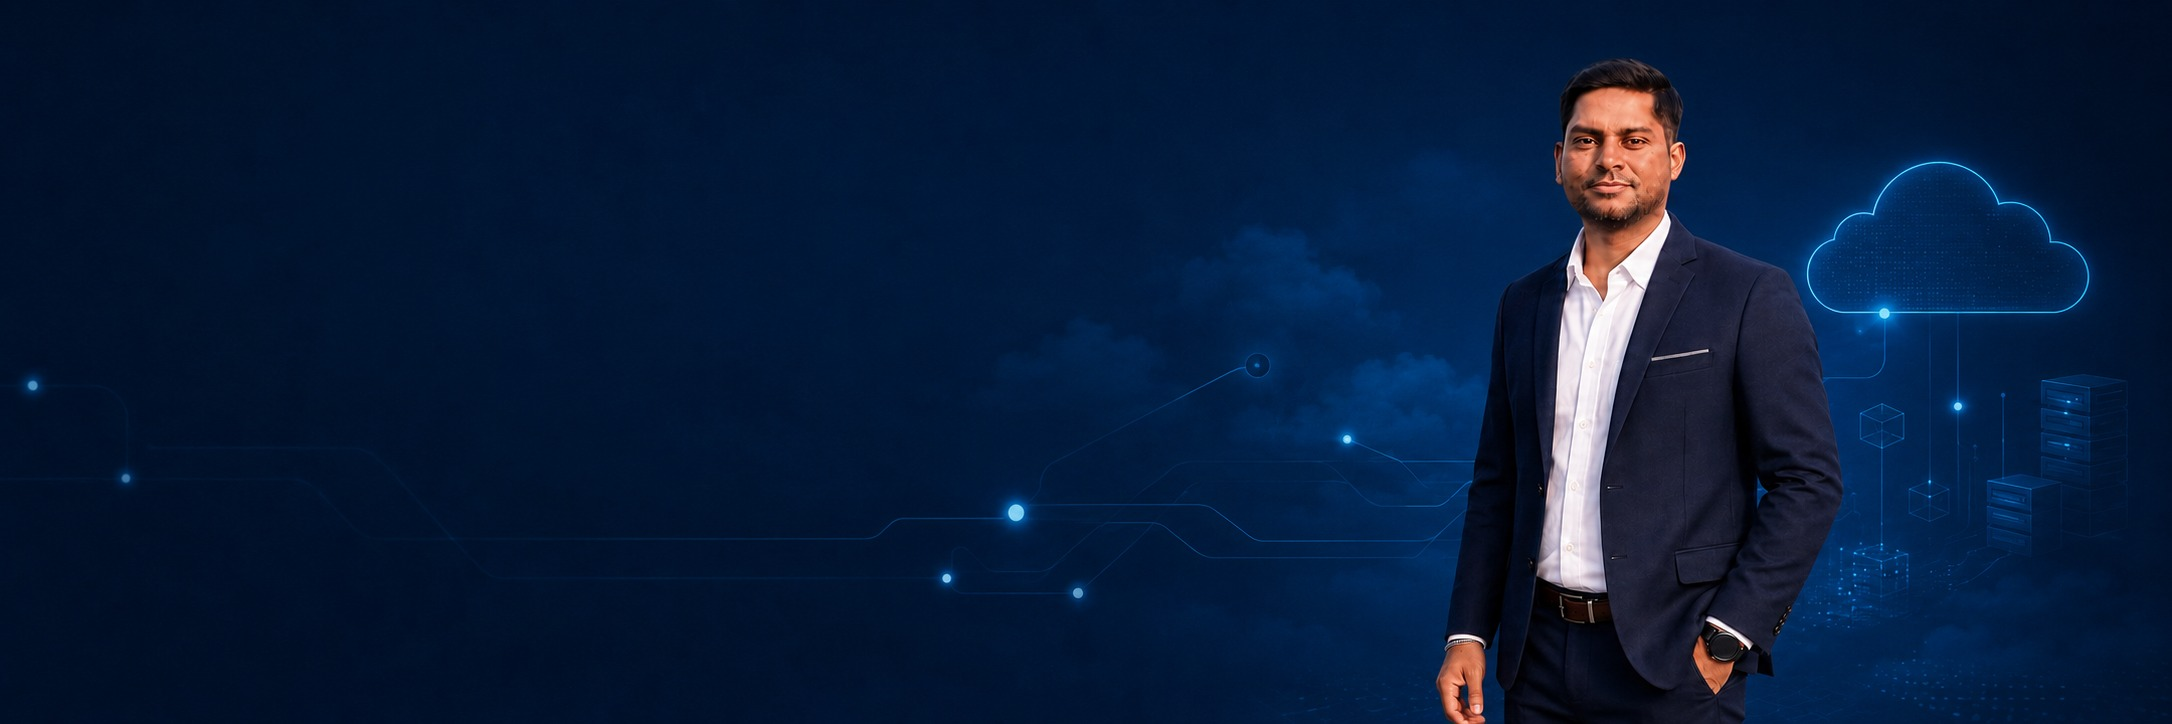
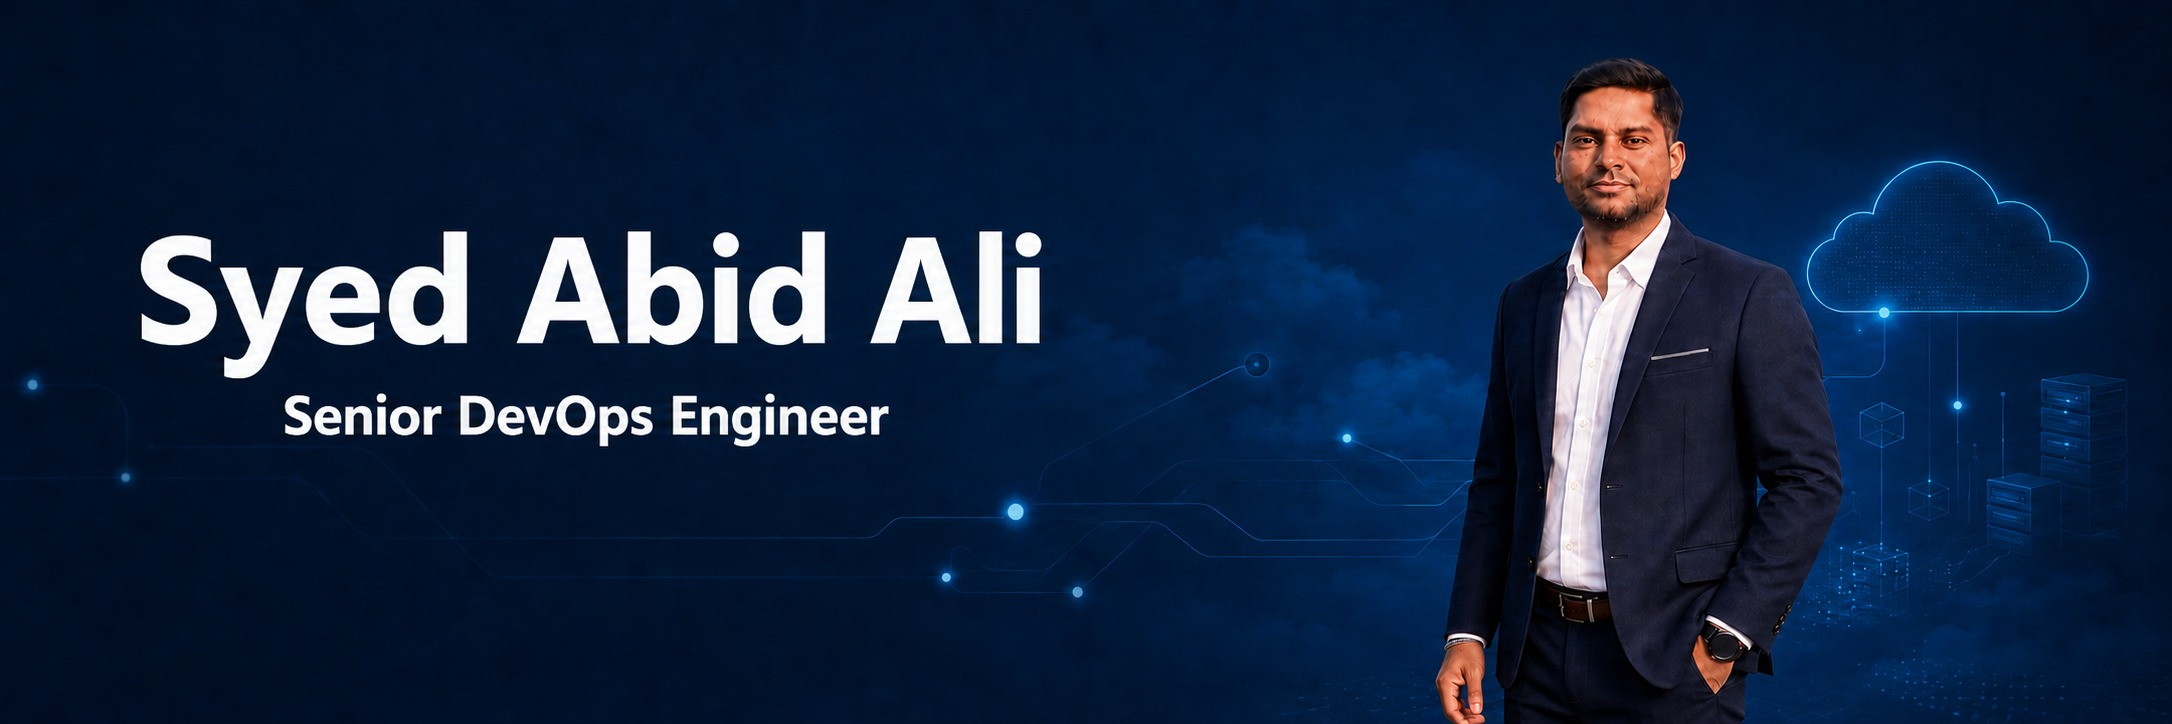
Edit readmefile1

diff --git a/README.md b/README.md
@@ -1,6 +1,6 @@
 <div align="center">
 
-<img src="https://capsule-render.vercel.app/api?type=rect&color=0:020617,45:0F172A,100:0C4A6E&height=210&section=header&text=Syed%20Abid%20Ali&fontSize=50&fontColor=F8FAFC&animation=fadeIn&fontAlignY=40&desc=Senior%20DevOps%20Engineer&descSize=20&descAlign=50&descAlignY=65" width="100%" alt="Syed Abid Ali Header"><img src="./images/github-banner.jpg" width="100%" alt="Syed Abid Ali Azure Cloud and DevOps Banner">
+<img src="./images/github-banner.jpg" width="100%" alt="Syed Abid Ali Azure Cloud and DevOps Banner">
 
 <img src="https://readme-typing-svg.demolab.com?font=Fira+Code&weight=600&size=20&pause=1100&color=38BDF8&center=true&vCenter=true&width=760&lines=13%2B+Years+of+IT+Experience;6%2B+Years+in+Azure+Cloud+%26+DevOps;Terraform+%7C+IaC+%7C+CI%2FCD+Automation;Building+Secure%2C+Reliable+Cloud+Infrastructure" alt="Professional summary animation">
 
